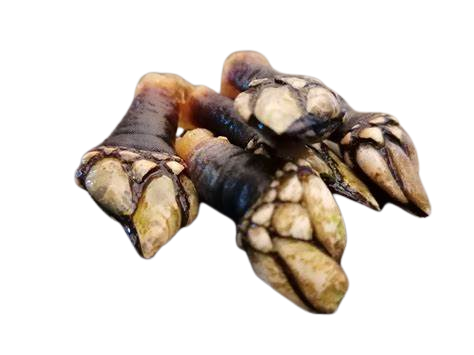
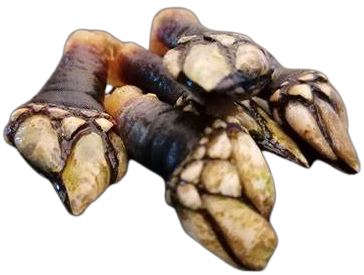
acabando interfaz Rajoy

diff --git a/rajoychi/tamagochi.html b/rajoychi/tamagochi.html
@@ -1,26 +1,55 @@
 <!DOCTYPE html>
 <html lang="es">
+
 <head>
     <meta charset="UTF-8">
     <meta name="viewport" content="width=device-width, initial-scale=1.0">
     <title>Document</title>
     <link rel="stylesheet" href="./tamagochi.css">
 </head>
+
 <body>
-    <img id="rajoy" src="./WhatsApp_Image_2023-10-02_at_15.07.40.png" height="200px" width="200px" alt="">
-    <div id="arriba">
-    <div id="comida"></div>
-    <div id="deporte"></div>
-</div>
-    <div id="abajo">
-    <div id="pelea">
[1 lines of base64/hex data omitted]
-        <img id="puigdemont" src="./WhatsApp_Image_2023-10-02_at_15.07.58.png" height="75px" width="75px" alt="">
-        <img id="comunismo" src="./comunismo.png" alt="" height="75px" width="100px">
-        <p id="fight">Fight!</p>
+    <div id="redonda">
+        <img id="rajoy" src="./WhatsApp_Image_2023-10-02_at_15.07.40.png" height="150px" width="150px" alt="">
+        <p id="nombre">M. Rajoy</p>
+        <progress id="conservadores_Rajoy" value="100" min="0" max="100"></progress>
     </div>
-    <div id="dormir"></div>
-    
+    <div id="arriba">
+        <div id="comida">
+            <progress id="progress_comida" value="100" max="100" min="0"></progress>
+            <img id="percebes" src="./Percebes-removebg-preview.png" alt="" height="75px">
+            <img id="constitucion"
+                src="https://2.bp.blogspot.com/-a5B855bjrQY/WEbq4t3qZ0I/AAAAAAAAGCA/Ly4dL0LdJx8g2rxFuVCWmJp4lsxmNv4_ACLcB/s320/Constitucion_de_1978.jpg"
+                alt="" height="75px">
+            <img id="podemos"
+                src="https://s1.eestatic.com/2020/05/25/espana/podemos-espana_492711055_152490471_1706x960.jpg" alt=""
+                height="75px">
+            <p id="food">Food!</p>
+        </div>
+        <div id="deporte">
+            <progress id="progress_deporte" value="100" max="100" min="0"></progress>
+            <img id="runningRajoy" src="./runningRajoy.png" alt="" height="100px">
+            <img id="jumpingRajoy" src="./jumpingRajoy.png" height="100px">
+            <p id="sports">Sports!</p>
+        </div>
+    </div>
+    <div id="abajo">
+        <div id="pelea">
+            <progress id="progress_pelea" value="100" max="100" min="0"></progress>
+            <img id="bandera" height="75px"
+                src="https://www.worldflags.es/imagenes/productos/1617p_INDEPENDENTISTACAT.jpg" alt="">
+            <img id="puigdemont" src="./WhatsApp_Image_2023-10-02_at_15.07.58.png" height="75px" alt="">
+            <img id="comunismo" src="./comunismo.png" alt="" height="75px">
+            <p id="fight">Fight!</p>
+        </div>
+        <div id="dormir">
+            <progress id="progress_dormir" value="100" max="100" min="0"></progress>
+            <img id="sleepingRajoy" src="./sleepingRajoy.png" alt="" height="75px">
+            <img id="sleepingRajoy2" src="./sleepingRajoy2.png" alt="" height="75px">
+            <img id="sleepingRajoy3" src="./sleepingRajoy3.png" alt="" height="75px">
+            <p id="sleep">Sleep!</p>
+        </div>
     </div>
 </body>
+
 </html>

diff --git a/rajoychi/tamagochi.css b/rajoychi/tamagochi.css
@@ -3,72 +3,188 @@
     src: url(./mk2.ttf);
 }
 
-body{
+body {
     margin: 0px;
 }
 
-#arriba{
+#arriba {
     width: 100%;
     height: 100%;
-    display: inline-flex;
+    display: flex;
     margin: 0px;
 }
 
-#abajo{
+#abajo {
     width: 100%;
     height: 100%;
-    display: inline-flex;
+    display: flex;
     margin: 0px;
     align-items: center;
 }
 
-#comida{
+#comida {
     background-color: rgb(162, 254, 24);
     width: 50vw;
     height: 50vh;
 }
 
-#deporte{
+#deporte {
     background-color: rgb(246, 246, 52);
     width: 50vw;
     height: 50vh;
 }
 
-#pelea{
+#pelea {
     background-color: rgb(220, 83, 83);
     width: 50vw;
     height: 50vh;
 }
 
-#dormir{
+#dormir {
     background-color: aquamarine;
     width: 50vw;
     height: 50vh;
 }
 
-#rajoy{
+#redonda {
+    height: 200px;
+    width: 200px;
+    border-radius: 50%;
+    -webkit-border-radius: 50%;
+    -moz-border-radius: 50%;
+    -ms-border-radius: 50%;
+    -o-border-radius: 50%;
+    background-color: rgb(122, 122, 255);
     position: absolute;
-    margin-top: 25vh;
-    margin-left: 41vw;
-    
+    margin-top: 34vh;
+    margin-left: 42vw;
+    z-index: 2;
 }
 
-#bandera{
+#rajoy {
+    position: relative;
+    z-index: 3;
+    margin-left: 12%;
+    margin-top: 5%;
+
+}
+
+#nombre {
+    margin-top: 0px;
+    margin-left: 25%;
+    font-family: "MortalKombat";
+    font-size: 20px;
+}
+
+#bandera {
     margin-top: 5%;
     margin-left: 5%;
 }
 
-#puigdemont{
+#puigdemont {
     margin-left: 15%;
 }
 
-#comunismo{
+#comunismo {
     margin-left: 15%;
 }
 
-#fight{
+#fight {
     margin-top: 20%;
     margin-left: 40%;
     font-family: "MortalKombat";
     font-size: 50px;
+}
+
+#percebes {
+    margin-top: 5%;
+    margin-left: 5%;
+}
+
+#constitucion {
+    margin-left: 15%;
+}
+
+#podemos {
+    margin-left: 15%;
+}
+
+#food {
+    margin-top: 20%;
+    margin-left: 40%;
+    font-family: "MortalKombat";
+    font-size: 50px;
+}
+
+#runningRajoy {
+    margin-top: 5%;
+    margin-left: 20%;
+}
+
+#jumpingRajoy {
+    margin-left: 15%;
+}
+
+#sports {
+    margin-top: 15%;
+    margin-left: 40%;
+    font-family: "MortalKombat";
+    font-size: 50px;
+}
+
+#sleepingRajoy {
+    margin-top: 5%;
+    margin-left: 20%;
+}
+
+#sleepingRajoy2,
+#sleepingRajoy3 {
+    margin-left: 15%;
+}
+
+#sleep {
+    margin-top: 20%;
+    margin-left: 40%;
+    font-family: "MortalKombat";
+    font-size: 50px;
+}
+
+#progress_comida {
+    height: 5vh;
+    width: 35vw;
+    position: absolute;
+    margin-left: 6vw;
+    margin-top: 15%;
+}
+
+#progress_deporte {
+    height: 5vh;
+    width: 35vw;
+    position: absolute;
+    margin-left: 8vw;
+    margin-top: 15%;
+}
+
+#progress_pelea {
+    height: 5vh;
+    width: 35vw;
+    position: absolute;
+    margin-left: 6vw;
+    margin-top: 15%;
+}
+
+#progress_dormir {
+    height: 5vh;
+    width: 35vw;
+    position: absolute;
+    margin-left: 8vw;
+    margin-top: 15%;
+}
+
+#conservadores_Rajoy {
+    height: 5vh;
+    width: 10vw;
+    position: absolute;
+    margin-left: 3vw;
+    margin-top: 0%;
 }
